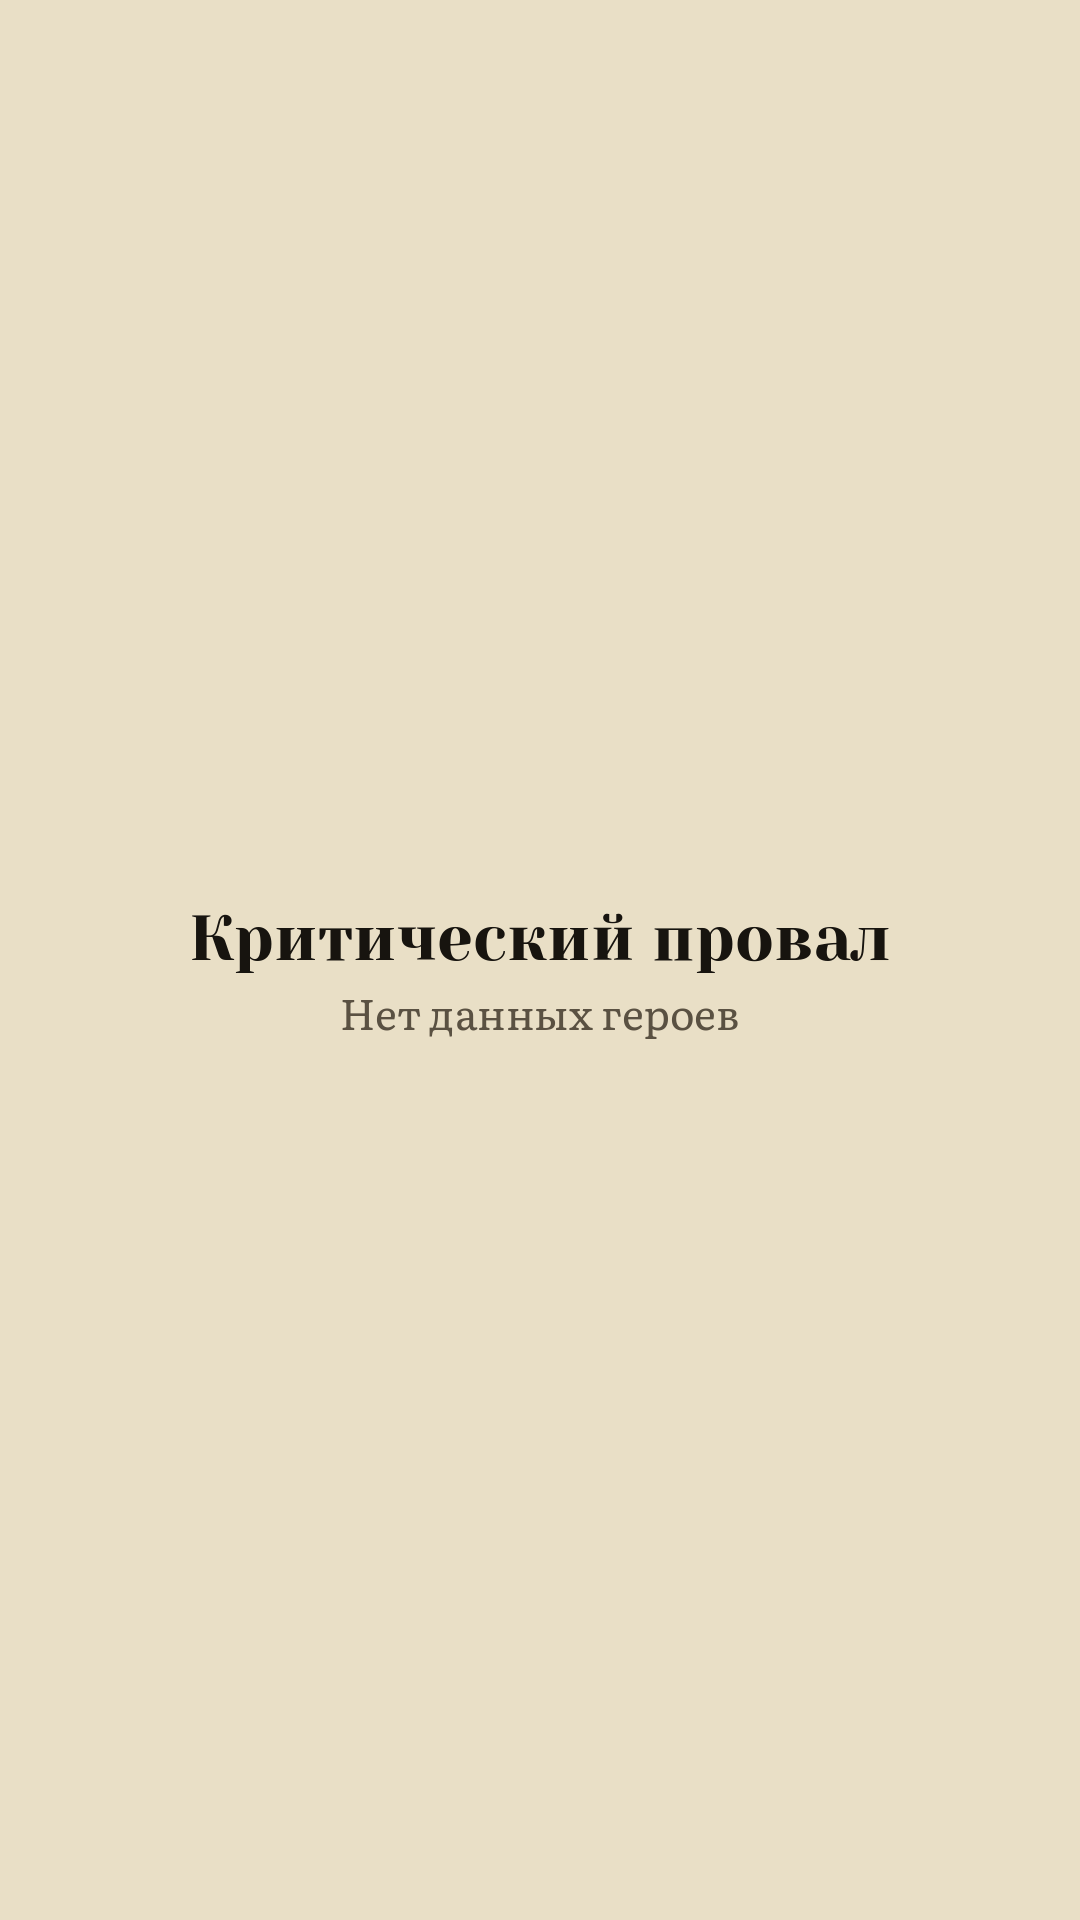
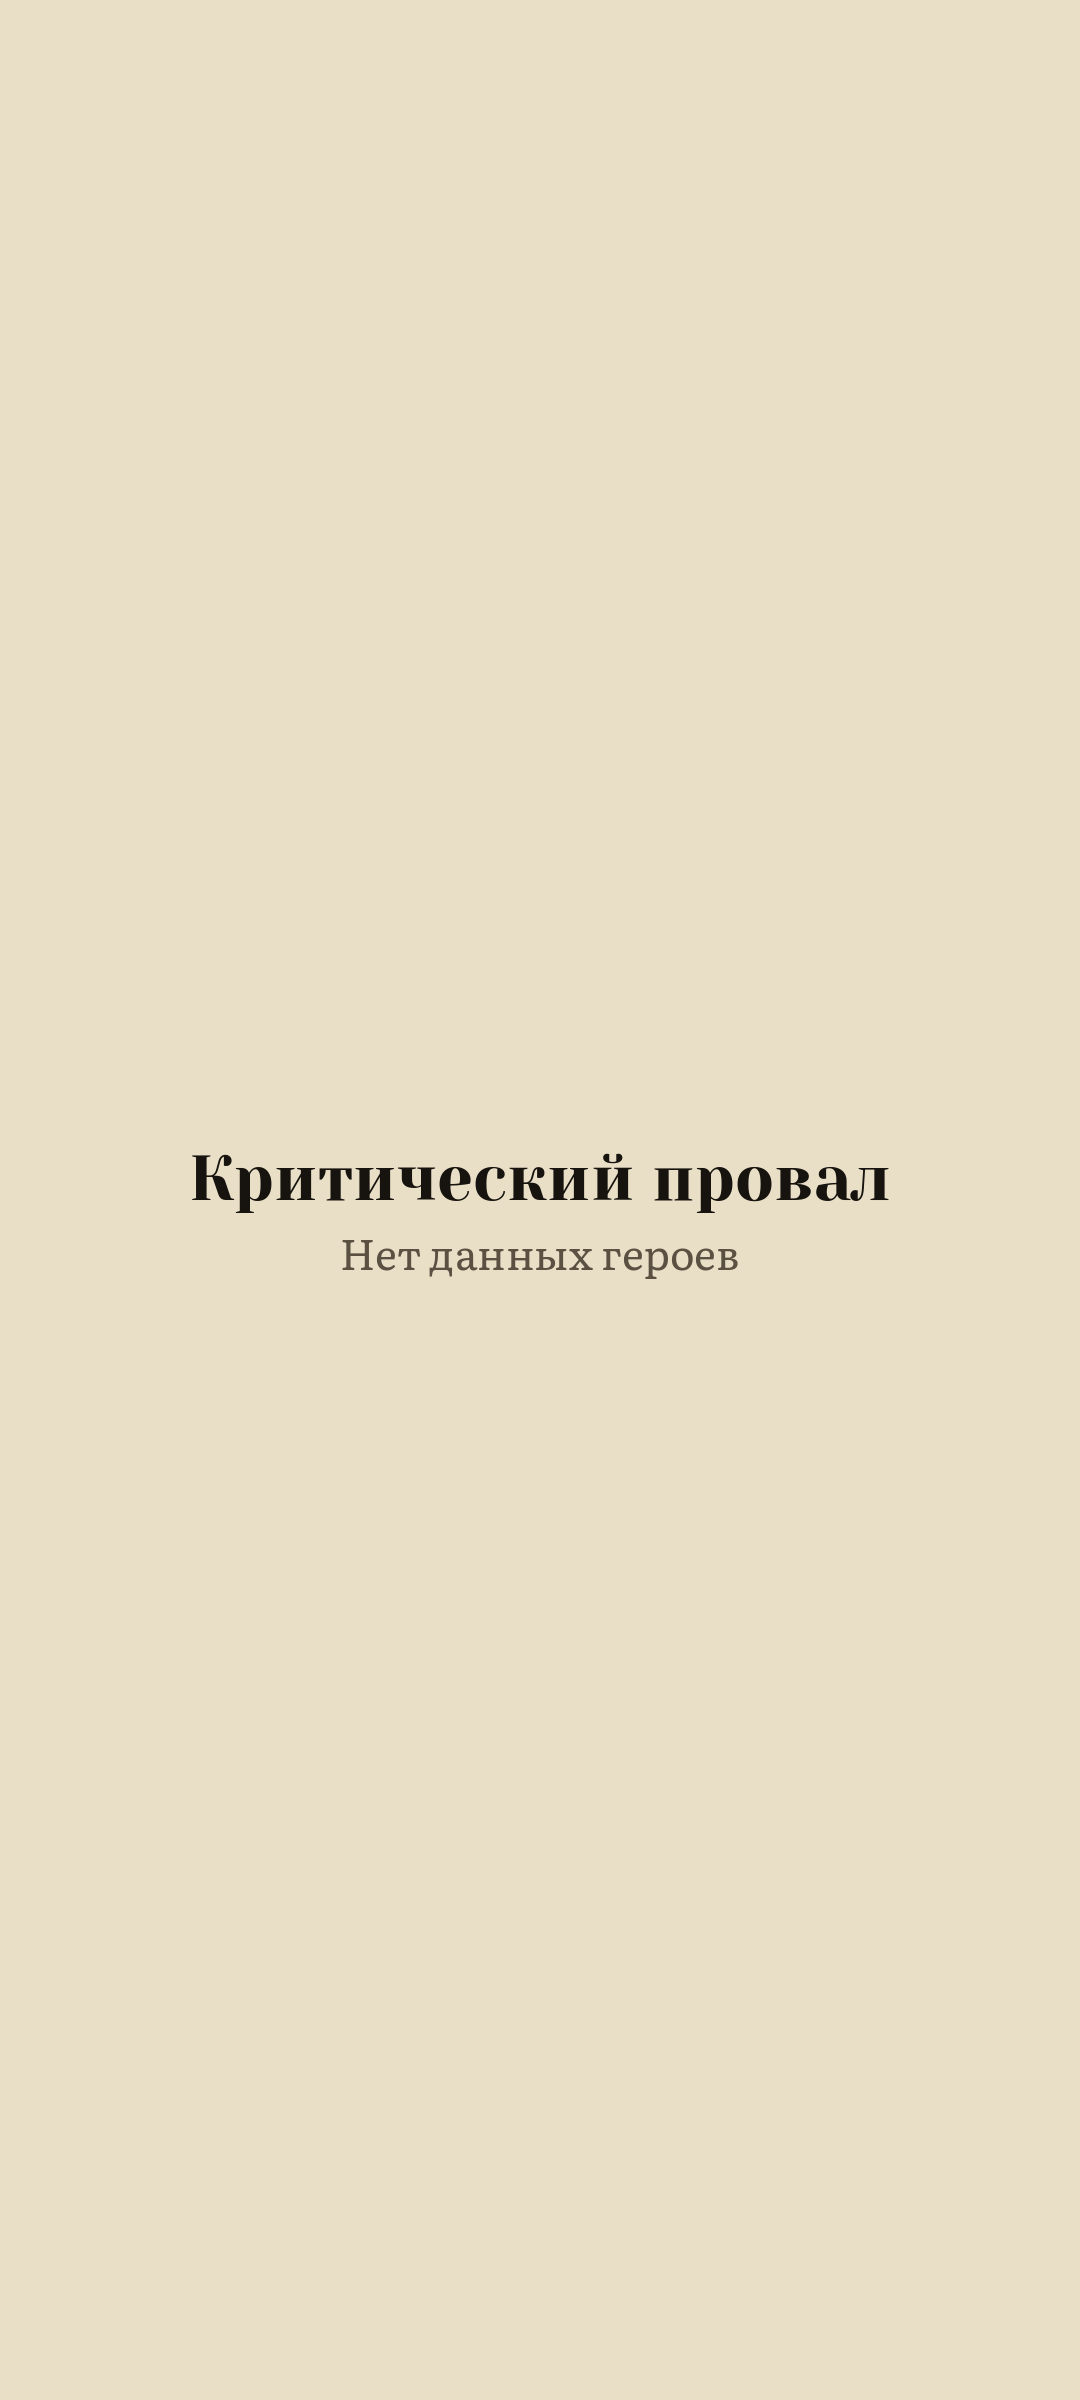
feat: story RT1 closed — audit round 2 fixes: abandoned write keeps the IO busy (no two threads on a slot, cap of 3), Back flush ≤500 ms, tr() on title and status, single theme scaling, 20:9 screenshots re-taken at 1080×2400 (869 tests green)
Story: RT1 (DD-022, DD-024)

Claude-Session: https://claude.ai/code/session_01P3e8YNZLRk3tosmdTrfkwg

Changed region(s): [[0.1833, 0.4688, 0.825, 0.5625]]

diff --git a/production/HANDOFF.md b/production/HANDOFF.md
@@ -32,6 +32,7 @@
 GDD (все Designed, ждут независимого ревью): run-state, d20-checks, heroes, branching-story, choice-system, chapter-goal, save-system, scene-illustrations. MVP 8/10 в `design/gdd/systems-index.md`. Решения директоров — `design/DIRECTOR_DECISIONS.md` (последний DD-017).
 
 ## Открытые задачи
+- История RT1 «Первая точка запуска» закрыта 2026-11-19 (869 тестов): BootServices, autoload SaveService (flush: пауза и Back ≤500 мс, закрытие — flush_ms), сторож записи 3 с (после 3 брошенных подряд запись отключена до перезапуска), шрифты в теме, ThemeScale, экран запуска со скриншотами 16:9/20:9 × 100/200 %. Открыто до APK: замер AC-47/48 и ANR на телефоне, Safe Area на устройстве с вырезом, проба «Убрать анимацию», тёмная тема (не сделана), каталог локализации (строки уже под tr()).
 - История UI1 «Ядро для UI» закрыта 2026-11-19 (845 тестов): OptionView, CaptionTexts + assets/data/config/captions.json, CheckBrief, защёлка ставки report_stake_visible(scene_id), close_check/flow_error, write_ended. Имена характеристик — из hero.json (StatData.name). Спеки экранов можно снимать со статуса Draft после ревью (`/ux-review`). Дальше — первая рантайм-точка.
 - UX-спеки «Экран чтения» и «Экран броска» записаны (design/ux/, по 2 раунда аудита; решения CEO в USER_PREFERENCES.md «Экран чтения», «Экран броска», «Шрифт»). Дальше — истории «Экран чтения: ядро для UI» и «Экран броска: ядро для UI» (поля/команды из Dependencies спек), затем первая рантайм-точка. Проба на устройстве до APK: системная «Убрать анимацию» (RS-D6), Safe Area, tnum в Literata.
 - История Сохранения закрыта 2026-11-18 (SV1–SV4, 798 тестов; ADR-0002; DD-023, DD-024; CEO: READ_ERROR). Код `src/core/save/`: SaveCodec, RunBody, SaveWriter, SaveIo/ThreadSaveIo, RunSession, SaveConfig, SaveNode. Отложено до первого APK: autoload SaveNode, ожидание записи при выходе, AC-22, замер AC-47. Отложено до своих GDD: переходы 4 и 5 («Схема главы»), Галерея, Меню.
